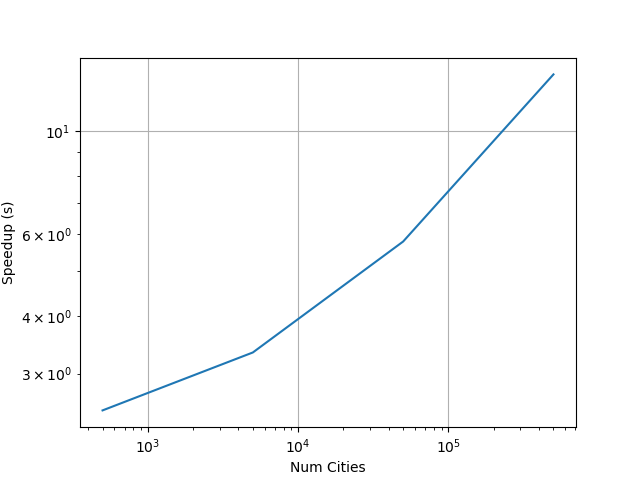
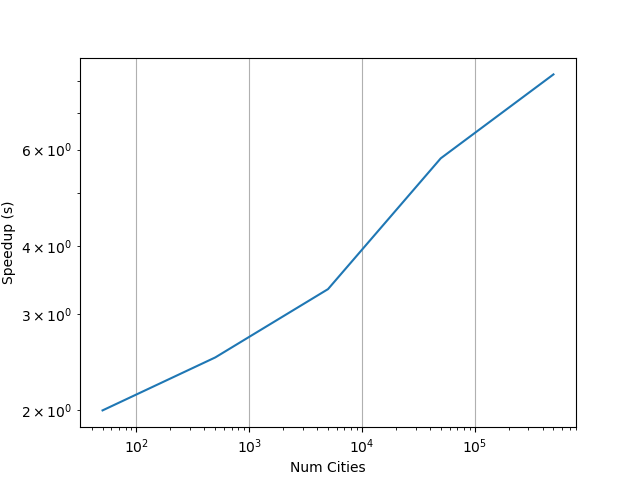
about to trim for submission

diff --git a/502a2/mpi2.py b/502a2/mpi2.py
@@ -12,13 +12,15 @@ start_time = datetime.datetime.now()
 
 BLOCK_SIZE = 10
 SPLIT_DEPTH = 2
-x_dim = 2**int(math.ceil((SPLIT_DEPTH+1)/2.0))
-y_dim = 2**int(math.floor((SPLIT_DEPTH+1)/2.0))
+
 
 comm = MPI.COMM_WORLD
 rank = comm.Get_rank()
-cartesian = comm.Create_cart(dims = [x_dim,y_dim],periods =[False,False],reorder=False)
-coord = cartesian.Get_coords(rank)
+if SPLIT_DEPTH >= 1:
+    x_dim = 2**int(math.ceil((SPLIT_DEPTH+1)/2.0))
+    y_dim = 2**int(math.floor((SPLIT_DEPTH+1)/2.0))
+    cartesian = comm.Create_cart(dims = [x_dim,y_dim],periods =[False,False],reorder=False)
+    coord = cartesian.Get_coords(rank)
 
 def get_time():
     return (datetime.datetime.now() - start_time).total_seconds()
@@ -56,10 +58,6 @@ def recursive_split(cities, all_cities, depth=0):
         path0 = recursive_split(part0, all_cities, depth+1)
         path1 = recursive_split(part1, all_cities, depth+1)
 
-
-    # if depth < 4:
-    #     pass
-    #     print("  " * depth, rank, len(cities), len(part0), len(path0), len(part1), len(path1))
     path = swap(path0, path1, all_cities)
     if depth == SPLIT_DEPTH + 1:
         print("  " * depth, rank, "starting inversions", get_time())

diff --git a/502a2/results.py b/502a2/results.py
@@ -101,7 +101,7 @@ def gen_plot():
     #p = [(,), (,), (,), (,), (,), (,), ]
     p = [(1,96/96), (2,96/57), (4,96/31), (8,96/26), (16,96/16.6), (32,96/14.5)]
     #p = [(500,1), (5000,12), (50000,96), (500000,1639)]
-    p = [(500,1/0.4), (5000,12/3.6), (50000,96/16.6), (500000,2639/199)]
+    p = [(50,0.2/0.1), (500,1/0.4), (5000,12/3.6), (50000,96/16.6), (500000,1639/199)]
 
     plt.loglog([t[0] for t in p],[t[1] for t in p])
     #plt.plot([t[0] for t in p],[t[1] for t in p])
@@ -113,7 +113,9 @@ def gen_plot():
     #plt.title('Path length')
     plt.grid(True)
     plt.savefig("multi.png")
+    print(p)
     plt.show()
+    
     # plt.plot([t[0] for t in exact],[t[1] for t in exact])
     # plt.xlabel('Num Cities')
     # plt.ylabel('Runtime (s)')

diff --git a/502a2/x_math.py b/502a2/x_math.py
@@ -2,8 +2,8 @@
 import math
 
 BLOCK_SIZE = 10
-SPLIT_DEPTH = -1
-x_dim = 2**int(math.ceil((SPLIT_DEPTH+1)/2.0))
-y_dim = 2**int(math.floor((SPLIT_DEPTH+1)/2.0))
+SPLIT_DEPTH = 3
+x_dim = 2**int(math.ceil((SPLIT_DEPTH)/2.0))
+y_dim = 2**int(math.floor((SPLIT_DEPTH)/2.0))
 
 print(x_dim, y_dim)
